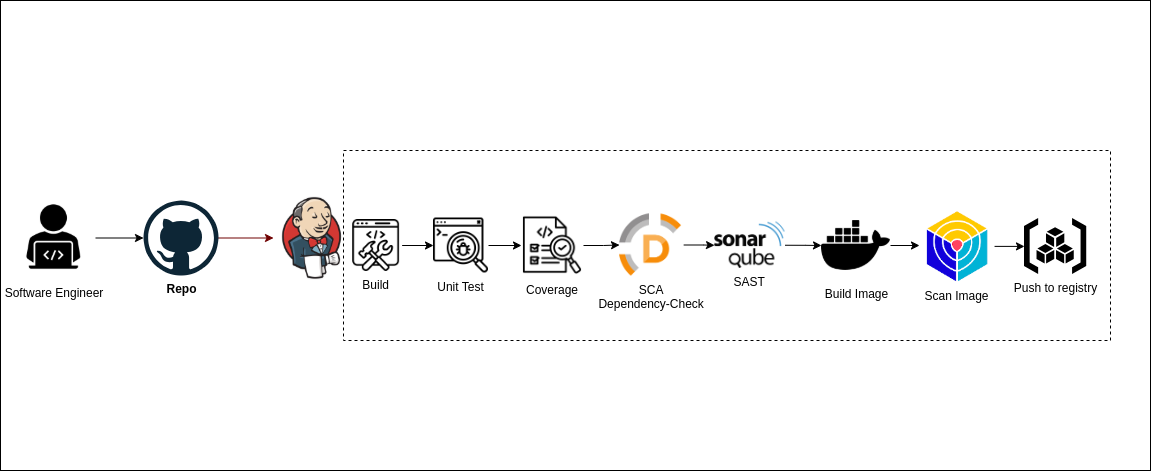
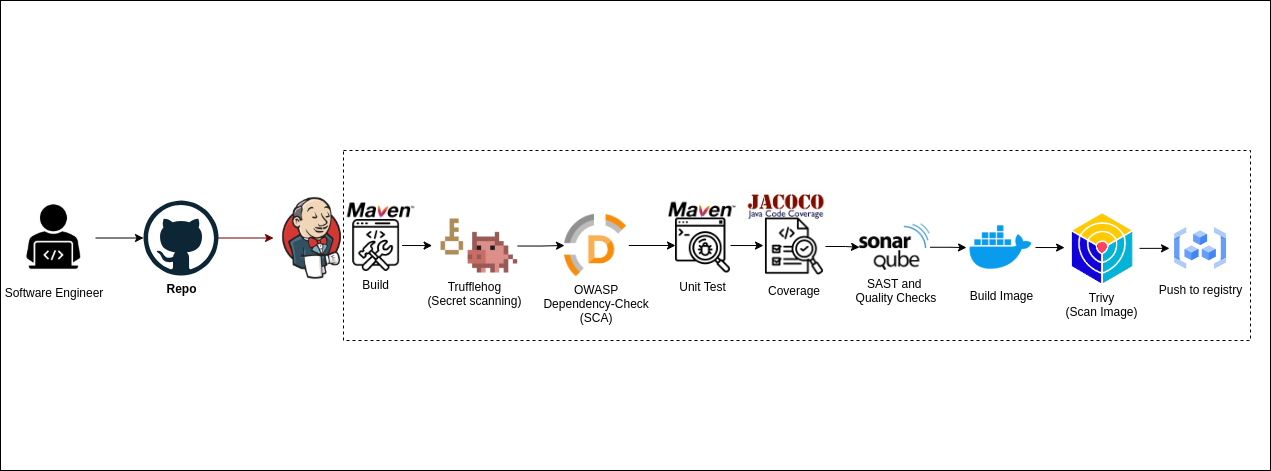
Add trufflehog for secret scanning

Changed region(s): [[0.0, 0.4161, 1.0, 0.6837], [0.0, 0.5945, 0.0912, 0.6539]]

diff --git a/README.md b/README.md
@@ -2,3 +2,10 @@
 
 ## Continuous Integration (CI)
 ![](./CI.png)
+> Pipeline implemented using Jenkins
+- Built using maven
+- Checking for secrets using trufflehog
+- Software Composition Analysis: OWASP dependency check
+- SAST: SonarQube
+- Containerization: Docker
+- Image scanning: Trivy
